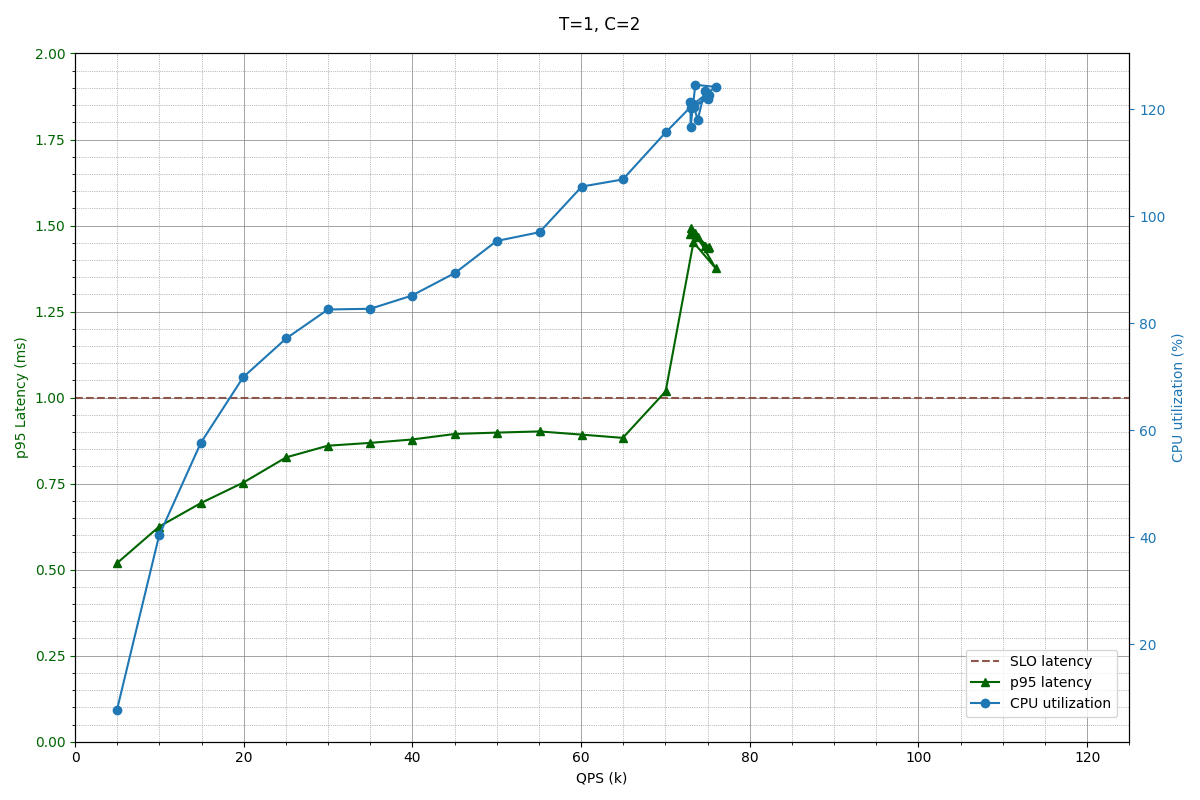
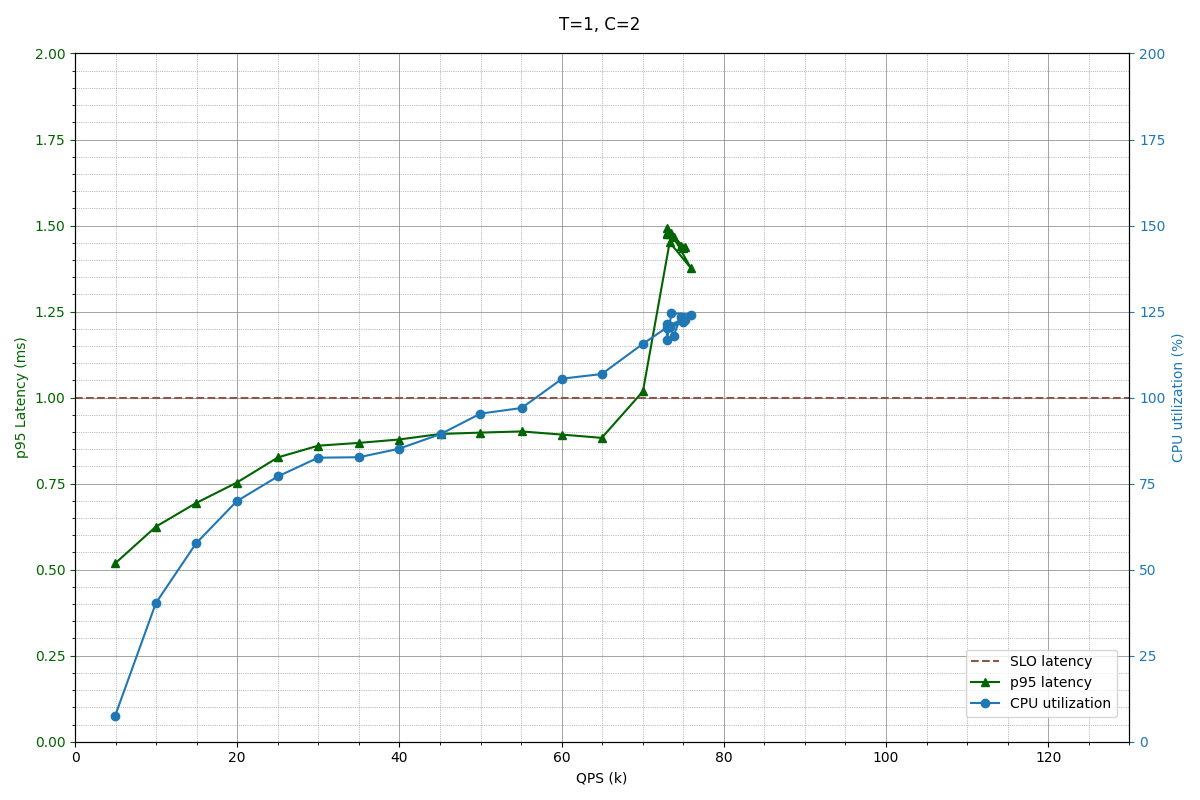
fix plots for 4.1

diff --git a/task4/question1/result_plot.py b/task4/question1/result_plot.py
@@ -14,7 +14,6 @@ all_data = pd.DataFrame()
 for file in all_files:
     df = pd.read_csv(file)
     measurement_type = os.path.basename(file).split('-run')[0]
-    print(measurement_type)
     df['measurement'] = measurement_type
     all_data = pd.concat([all_data, df], ignore_index=True)
 
@@ -69,13 +68,14 @@ measurements = all_data['measurement'].unique()
 
 for measurement in measurements:
     fig, ax1 = plt.subplots(figsize=(12, 8))
+    ax1.set_ylim([0, 2])
+    ax1.set_xlim([0, 130])
 
     ax1.axhline(y=1, color='tab:brown', linestyle='--', label='SLO latency')
     measurement_data = summary[summary['measurement'] == measurement]
     ax1.plot(measurement_data['QPS_mean'], measurement_data['p95_mean'],
                 marker='^', color='darkgreen', label='p95 latency')
     
-    ax1.set_ylim([0, 2])
     
     ax1.set_xlabel('QPS (k)')
     ax1.set_ylabel('p95 Latency (ms)', color='darkgreen')
@@ -84,9 +84,9 @@ for measurement in measurements:
     ax1.grid(which='major', linestyle='-', linewidth='0.5', color='gray')
     ax1.grid(which='minor', linestyle=':', linewidth='0.5', color='gray')
     ax1.minorticks_on()
-    ax1.set_xlim([0, 125])
 
     ax2 = ax1.twinx()
+    ax2.set_ylim([0, 200])
 
     ax2.plot(measurement_data['QPS_mean'], measurement_data['CPU_mean'],
                 marker='o', color='tab:blue', label='CPU utilization')
